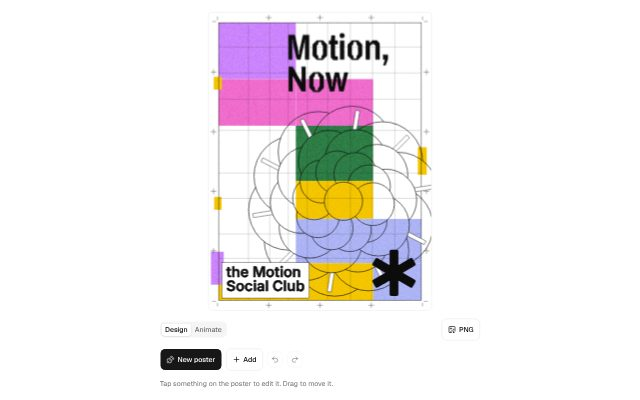
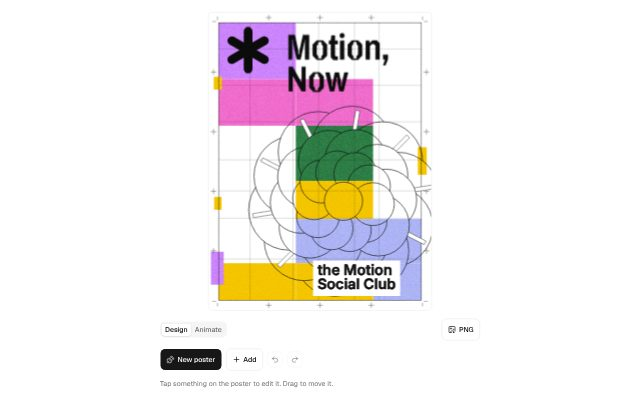
KV Posters: lockup box and corner vary per seed
Claude-Session: https://claude.ai/code/session_01TARX4bFFU8dum9PbtFbYFe

Changed region(s): [[0.3438, 0.6, 0.6562, 0.75], [0.3438, 0.06, 0.4375, 0.18]]

diff --git a/playground/app/prototypes/kv-posters/generate.ts b/playground/app/prototypes/kv-posters/generate.ts
@@ -2,9 +2,9 @@ import { FORMATS, TEMPLATES } from "./data";
 import { approxMeasure, lockup, mark, type Measure } from "./elements";
 import { LAYOUTS, type Frame } from "./layouts";
 import { cuts, paintSquares } from "./mosaic";
-import { rng } from "./random";
+import { rng, type Rng } from "./random";
 import { vary } from "./vary";
-import type { Element, FormatId, Paint, Poster, Template } from "./types";
+import type { Element, FormatId, Headline, Lockup, Mark, Paint, Poster, Template } from "./types";
 
 export interface GenOptions {
   template: (typeof TEMPLATES)[number];
@@ -38,15 +38,8 @@ export function generate(o: GenOptions, measure: Measure = approxMeasure): Poste
   if (squares) body = [...paintSquares(r, f, width, o.density), ...body.filter((e) => e.kind !== "block" && e.kind !== "bands").map(outlined)];
   const lk = Math.round(f.U * r.range(0.05, 0.066));
   const ms = Math.round(f.U * r.range(0.06, 0.09));
-  const swap = r.chance(0.35);
-  const lockupEl = lockup(f.x + width * 0.015, f.y + f.h - lk * 2.6, lk);
-  const markEl = { ...mark(f.x + f.w - ms * 1.15, f.y + f.h - ms * 1.15, ms, squares || t === "cascade" ? "brown" : "ink"), box: !squares, round: r.chance(0.7) ? 1 : r.range(0, 0.6), ...(squares ? { size: ms * 1.6, cx: f.x + f.w - ms * 1.7, cy: f.y + f.h - ms * 1.7 } : {}) };
-  if (swap) {
-    // asterisk bottom-left, lockup bottom-right
-    const lw = lk * 7.4;
-    lockupEl.x = f.x + f.w - lw;
-    markEl.cx = f.x + (f.x + f.w - markEl.cx);
-  }
+  const markEl = { ...mark(0, 0, ms, squares || t === "cascade" ? "brown" : "ink"), box: !squares, round: r.chance(0.7) ? 1 : r.range(0, 0.6), ...(squares ? { size: ms * 1.6 } : {}) };
+  const { lockupEl } = placeCorners(body, f, r, lk, markEl, measure);
   const boxes = (e: Element): Element => (e.kind === "headline" || e.kind === "lockup" || e.kind === "mark" ? { ...e, boxLine: r.chance(0.55) } : e);
   return {
     version: 1,
@@ -61,6 +54,42 @@ export function generate(o: GenOptions, measure: Measure = approxMeasure): Poste
 }
 
 /** Squares mode: rosettes become scalloped outlines, the headline loses its box. */
+type Rect = { x: number; y: number; w: number; h: number };
+const hit = (a: Rect, b: Rect) => a.x < b.x + b.w && b.x < a.x + a.w && a.y < b.y + b.h && b.y < a.y + a.h;
+const CORNERS = ["bl", "br", "tl", "tr"] as const;
+
+/** Lockup and asterisk go to two different random corners, clear of the headline; the lockup's box is a coin flip. */
+function placeCorners(body: Element[], f: Frame, r: Rng, lk: number, markEl: Mark, measure: Measure): { lockupEl: Lockup } {
+  const lw = lk * 7.4;
+  const lh = lk * 2.6;
+  const d = markEl.size * (markEl.box ? 2.3 : 2.1);
+  const head = body.find((e): e is Headline => e.kind === "headline");
+  const hb: Rect | null = head
+    ? (() => {
+        const b = measure(head.text, head.size);
+        const [w, h] = head.vertical ? [b.h, b.w] : [b.w, b.h];
+        const pad = head.size * 0.25;
+        return { x: head.x - pad, y: head.y - pad, w: w + pad * 2, h: h + pad * 2 };
+      })()
+    : null;
+  const inset = () => r.range(0, f.U * 0.03);
+  const at = (c: (typeof CORNERS)[number], w: number, h: number): Rect => {
+    const x = c[1] === "l" ? f.x + inset() : f.x + f.w - w - inset();
+    const y = c[0] === "t" ? f.y + inset() : f.y + f.h - h - inset();
+    return { x, y, w, h };
+  };
+  const order = [...CORNERS].map((c) => [r(), c] as const).sort((a, b) => a[0] - b[0]).map(([, c]) => c);
+  const clear = (rc: Rect) => !hb || !hit(rc, hb);
+  const lc = order.find((c) => clear(at(c, lw, lh))) ?? "bl";
+  const lr = at(lc, lw, lh);
+  const mc = order.find((c) => c !== lc && clear(at(c, d, d)) && !hit(at(c, d, d), lr)) ?? order.find((c) => c !== lc)!;
+  const mr = at(mc, d, d);
+  markEl.cx = mr.x + d / 2;
+  markEl.cy = mr.y + d / 2;
+  const lockupEl = { ...lockup(lr.x, lr.y, lk), box: r.chance(0.5) };
+  return { lockupEl };
+}
+
 function outlined(e: Element): Element {
   if (e.kind === "flower") return { ...e, style: "scallop", petals: Math.max(12, e.petals + 4), r: e.r * 1.15 };
   if (e.kind === "headline") return { ...e, box: false };

diff --git a/playground/app/prototypes/kv-posters/generate.test.ts b/playground/app/prototypes/kv-posters/generate.test.ts
@@ -27,3 +27,18 @@ describe("generate", () => {
     expect(seen.size).toBeGreaterThan(2);
   });
 });
+
+describe("lockup", () => {
+  it("varies its box and corner across seeds", () => {
+    const boxes = new Set<boolean>();
+    const corners = new Set<string>();
+    for (let seed = 1; seed <= 60; seed++) {
+      const p = generate({ template: "auto", seed, format: "3x4", density: 0.55, paint: "fills" });
+      const l = p.elements.find((e) => e.kind === "lockup")!;
+      boxes.add(l.kind === "lockup" && l.box);
+      corners.add(`${l.y < p.height / 2 ? "t" : "b"}${l.x < p.width / 2 ? "l" : "r"}`);
+    }
+    expect(boxes.size).toBe(2);
+    expect(corners.size).toBeGreaterThanOrEqual(3);
+  });
+});
